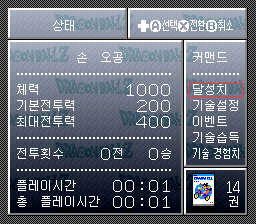
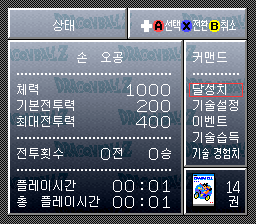
fix: 초오공전 각성편 v1.4 IPS 를 버튼 안내 아이콘 색을 되살린 빌드로 바꾸기
- v1.4 IPS 교체: 버튼 안내 아이콘 색, 아이콘 타일 겹침, 아래 줄 끝과 패널 여백 정렬(CRC32 8AA3123E)
- 웹 패처: v1.4 결과 CRC/MD5 갱신, 같은 날 바꾼 첫 v1.4 빌드(29F5A03B)는 이전 빌드로 알아봄
- 패치 노트의 v1.4 상태 화면 스크린샷 다시 찍기

diff --git a/src/lib/rom-patch.ts b/src/lib/rom-patch.ts
@@ -81,8 +81,10 @@ export const GOKUDEN_KAKUSEI: RomSpec = {
   patchedTitle: 'DBZ SUPER GOKUDEN 2',
   patchedSize: 4194304,
   original: { crc32: '3172CD4F', md5: '8502A3E5C0FDC56B6495A644ACA54413' },
-  patched: { crc32: '29F5A03B', md5: '078C288B4BA85FE7D2EAFE7503CC73A9' },
+  patched: { crc32: '8AA3123E', md5: 'AC0BE8D6057B4E2188295A71703F58DC' },
   previous: [
+    // The first v1.4 build, replaced the same day before the release was announced.
+    { crc32: '29F5A03B', md5: '078C288B4BA85FE7D2EAFE7503CC73A9' },
     { version: 'v1.3', crc32: 'B9F14962', md5: '7F3D20CAC538E0E197F0EFD3D7B56301' },
     { version: 'v1.2', crc32: 'E46C7A28', md5: 'E2457778B2F11063A75DFA69681E6FA3' },
     { version: 'v1.1', crc32: '32219BC3', md5: 'DBCB002BD5B91ED839BA1425EE13F6DE' },
